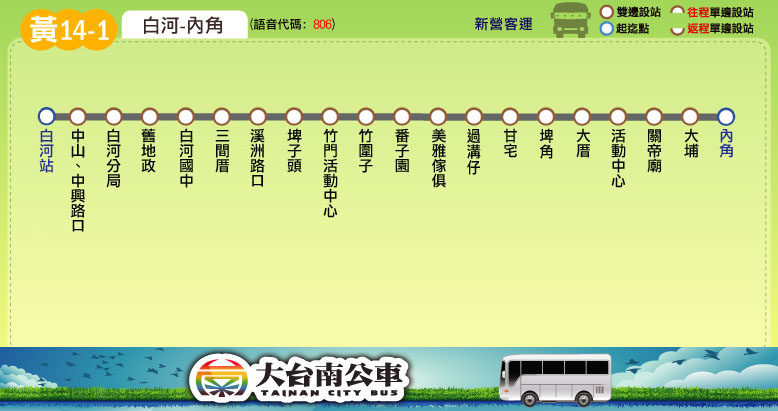
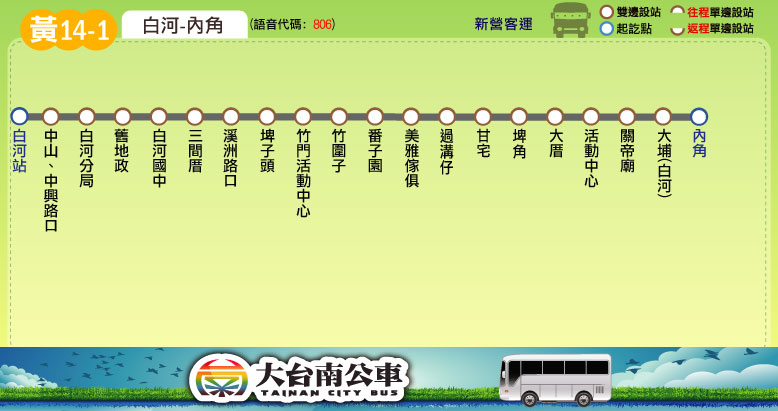
站位更名：「大埔」站更名 綠25線公車更名為「大埔(嘉義)」站 棕幹線公車更名為「大豐南天宮」站 黃14-1線公車更名為「大埔(白河)」站

Changed region(s): [[0.0, 0.2628, 0.9563, 0.5839], [0.7712, 0.0584, 0.8638, 0.0876]]

diff --git a/route/fare_and_time/brown.js b/route/fare_and_time/brown.js
@@ -7,7 +7,7 @@ brown_interval_stop = [
 ["大莊里","歡雅","松子腳"], // 歡雅
 ["中洲寮","田寮"], // 田寮
 ["大埔路口"], // 大埔路口
-["大豐國小","大埔","大埔橋"], // 大埔
+["大豐國小","大豐南天宮","大埔橋"], // 大埔
 ["學甲寮","平西里","飯店里","麻油寮"], // 學甲寮, 麻油寮
 ["宅子港","德安寮"], // 宅子港
 ["學甲國中","學甲郵局","學甲","學甲區公所","東寮"], // 學甲
@@ -34,12 +34,12 @@ brown_fare = [
 // format = [time at the start stop] or
 // [time, other] or
 // [time, start_stop, end_stop, other]
-brown_main_stop_name = ["新營","民治<br />市政中心","統聯<br />客運","鹽水","歡雅","大埔","麻油寮","學甲<br />區公所","奇美<br />佳里分院","佳里"];
+brown_main_stop_name = ["新營","民治<br />市政中心","統聯<br />客運","鹽水","歡雅","大豐<br />南天宮","麻油寮","學甲<br />區公所","奇美<br />佳里分院","佳里"];
 brown_main_stop_time_consume = [0, 3, 8, 18, 26, 33, 33, 43, 53, 60];
 brown_important_stop = [0, 3, 7, 9]; // 新營, 鹽水, 學甲區公所, 佳里
 var start_stop = 0; // 新營
 var end_stop = 3; // 鹽水
-var skip_stop_1 = 5; // 大埔
+var skip_stop_1 = 5; // 大豐南天宮
 var skip_stop_2 = 6; // 麻油寮
 var end_stop_2 = 7; // 學甲區公所
 brown_time_go = [["05:50",start_stop,end_stop_2,[skip_stop_1]],["06:00",start_stop,end_stop,['L',[end_stop,2]]],["06:05",[skip_stop_2,'L']],["06:10",start_stop,end_stop_2,[skip_stop_1]],["06:35",[skip_stop_1,'L']],["07:05",[skip_stop_2]],["07:35",[skip_stop_2]],["08:05",[skip_stop_1]],["08:35",[skip_stop_2]],["09:05",[skip_stop_2]],["09:35",[skip_stop_2,'L']],

diff --git a/route/fare_and_time/green_25.js b/route/fare_and_time/green_25.js
@@ -10,7 +10,7 @@ green_25_interval_stop = [
 ["第三莊","第四莊"], // 第三莊
 ["嘉義農場","第六莊","草嶺","第八莊"], // 嘉義農場
 ["過山","第十莊","長枝坑","大茅埔","泰山","楓康","枋樹林"], // 大茅埔
-["大埔路口","大埔公所","土地公廟","大埔","大埔街"] // 大埔
+["大埔路口","大埔公所","土地公廟","大埔(嘉義)","大埔街"] // 大埔
 ];
 green_25_fare = [
 [26],

diff --git a/route/fare_and_time/yellow_14_1.js b/route/fare_and_time/yellow_14_1.js
@@ -6,7 +6,7 @@ yellow_14_1_interval_stop = [ // 2017.06.13 checked
 ["溪洲路口","埤子頭"], // 埤子頭
 ["竹門活動中心","竹圍子","番子園"], // 竹圍子
 ["美雅傢俱","過溝仔","甘宅","埤角"], // 甘宅
-["大厝","活動中心","關帝廟","大埔"], // 關帝廟
+["大厝","活動中心","關帝廟","大埔(白河)"], // 關帝廟
 ["內角"] // 內角
 ];
 yellow_14_1_fare = [
